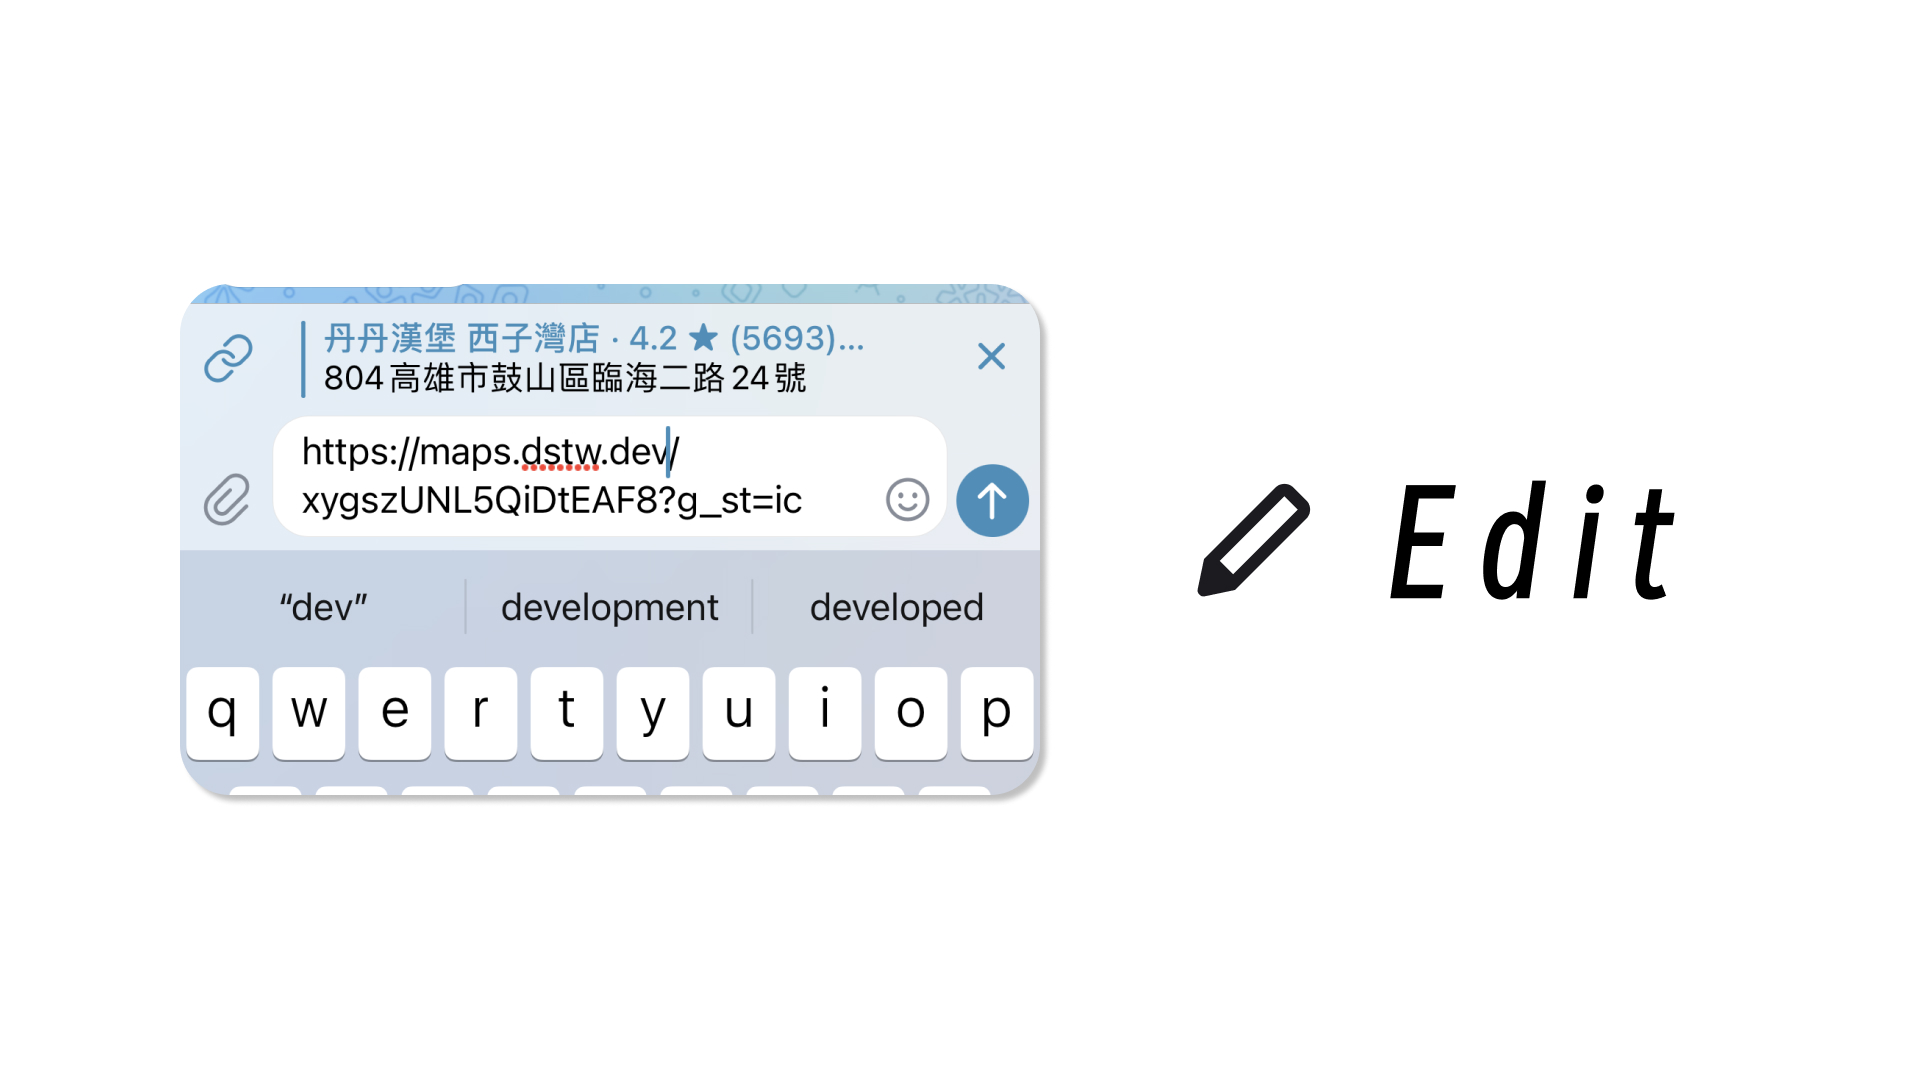
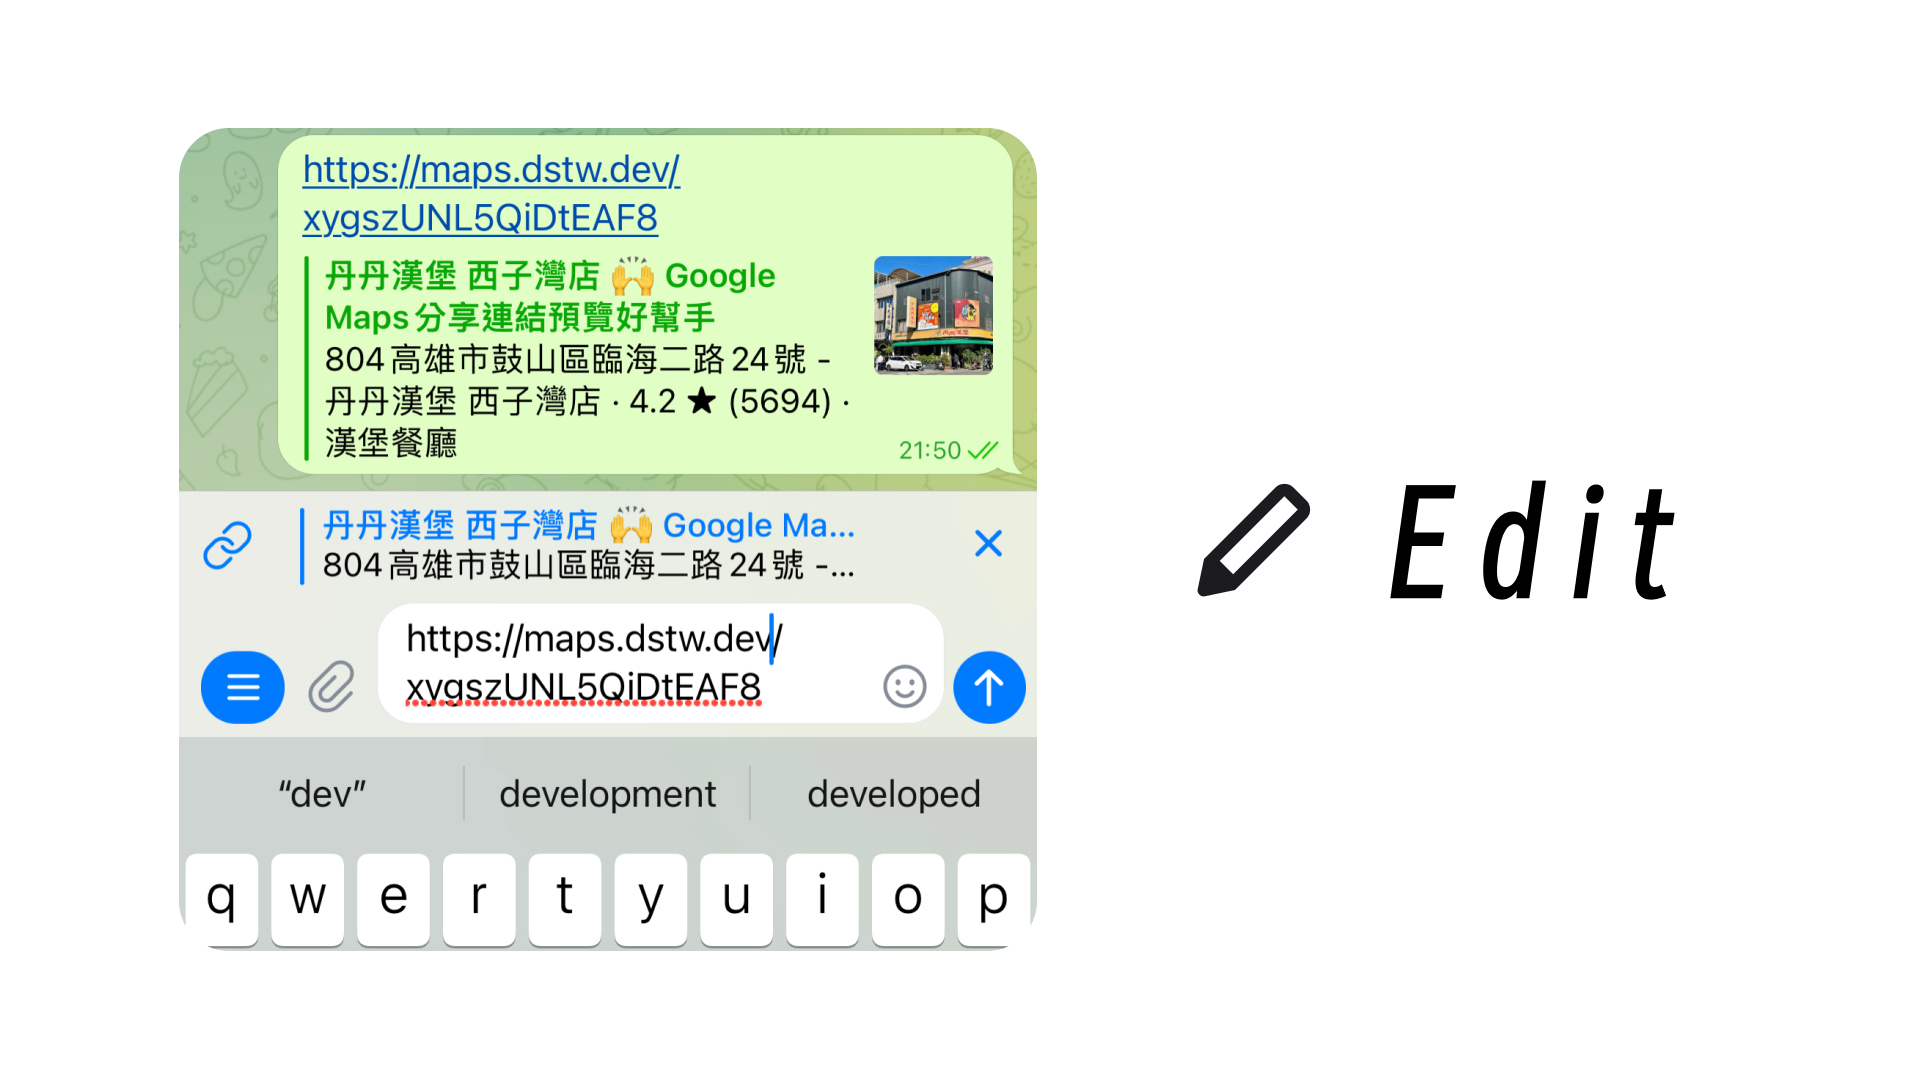
update og, 3edit image

Changed region(s): [[0.0938, 0.0917, 0.5625, 0.8861]]

diff --git a/README.md b/README.md
@@ -15,3 +15,9 @@
 ![](https://maps.dstw.dev/assets/2paste.jpg)
 
 ![](https://maps.dstw.dev/assets/3edit.jpg)
+
+### iOS/iPadOS 分享捷徑
+
+[點此安裝](https://www.icloud.com/shortcuts/c0ce7e020da14f14b4bb2687a2ecd334) iOS/iPadOS 捷徑，在分享時快速轉成 `maps.dstw.dev` 的地標連結。
+
+![](https://maps.dstw.dev/assets/ios-shortcut.jpeg)
